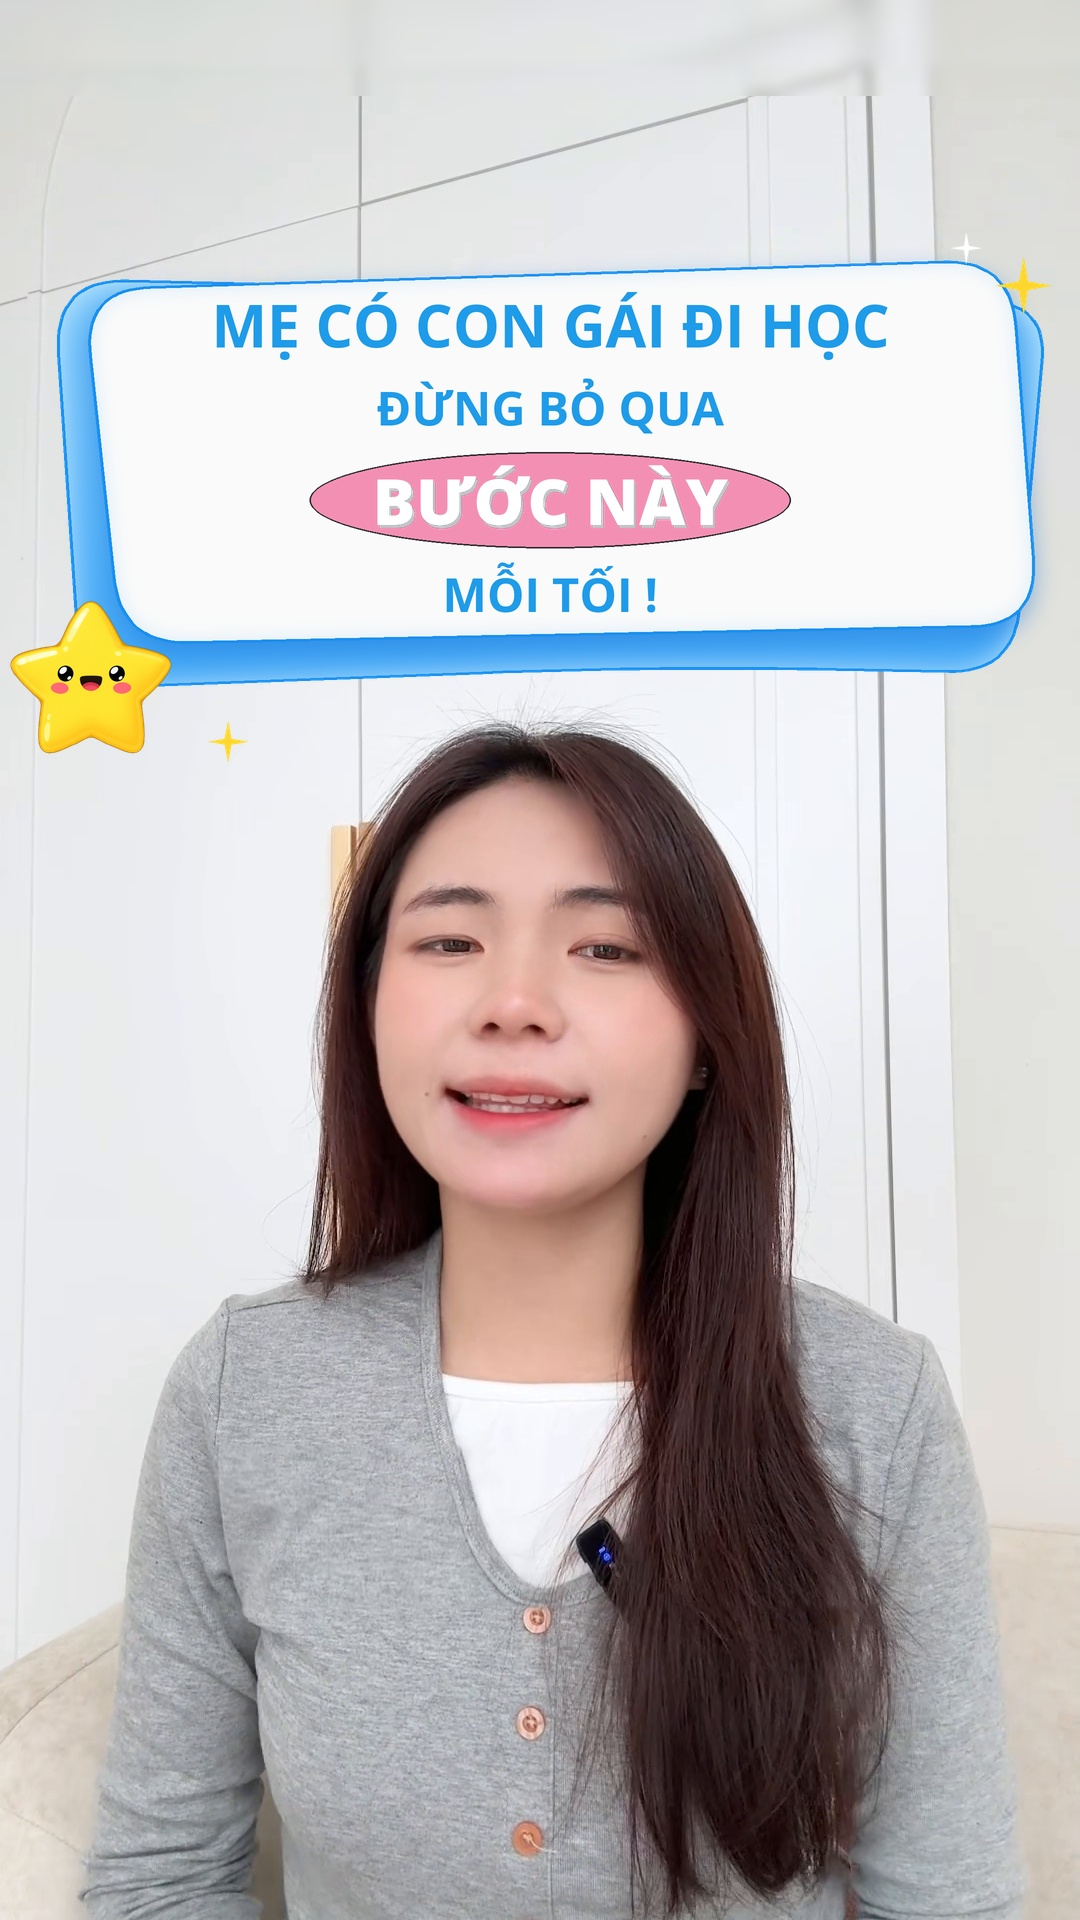
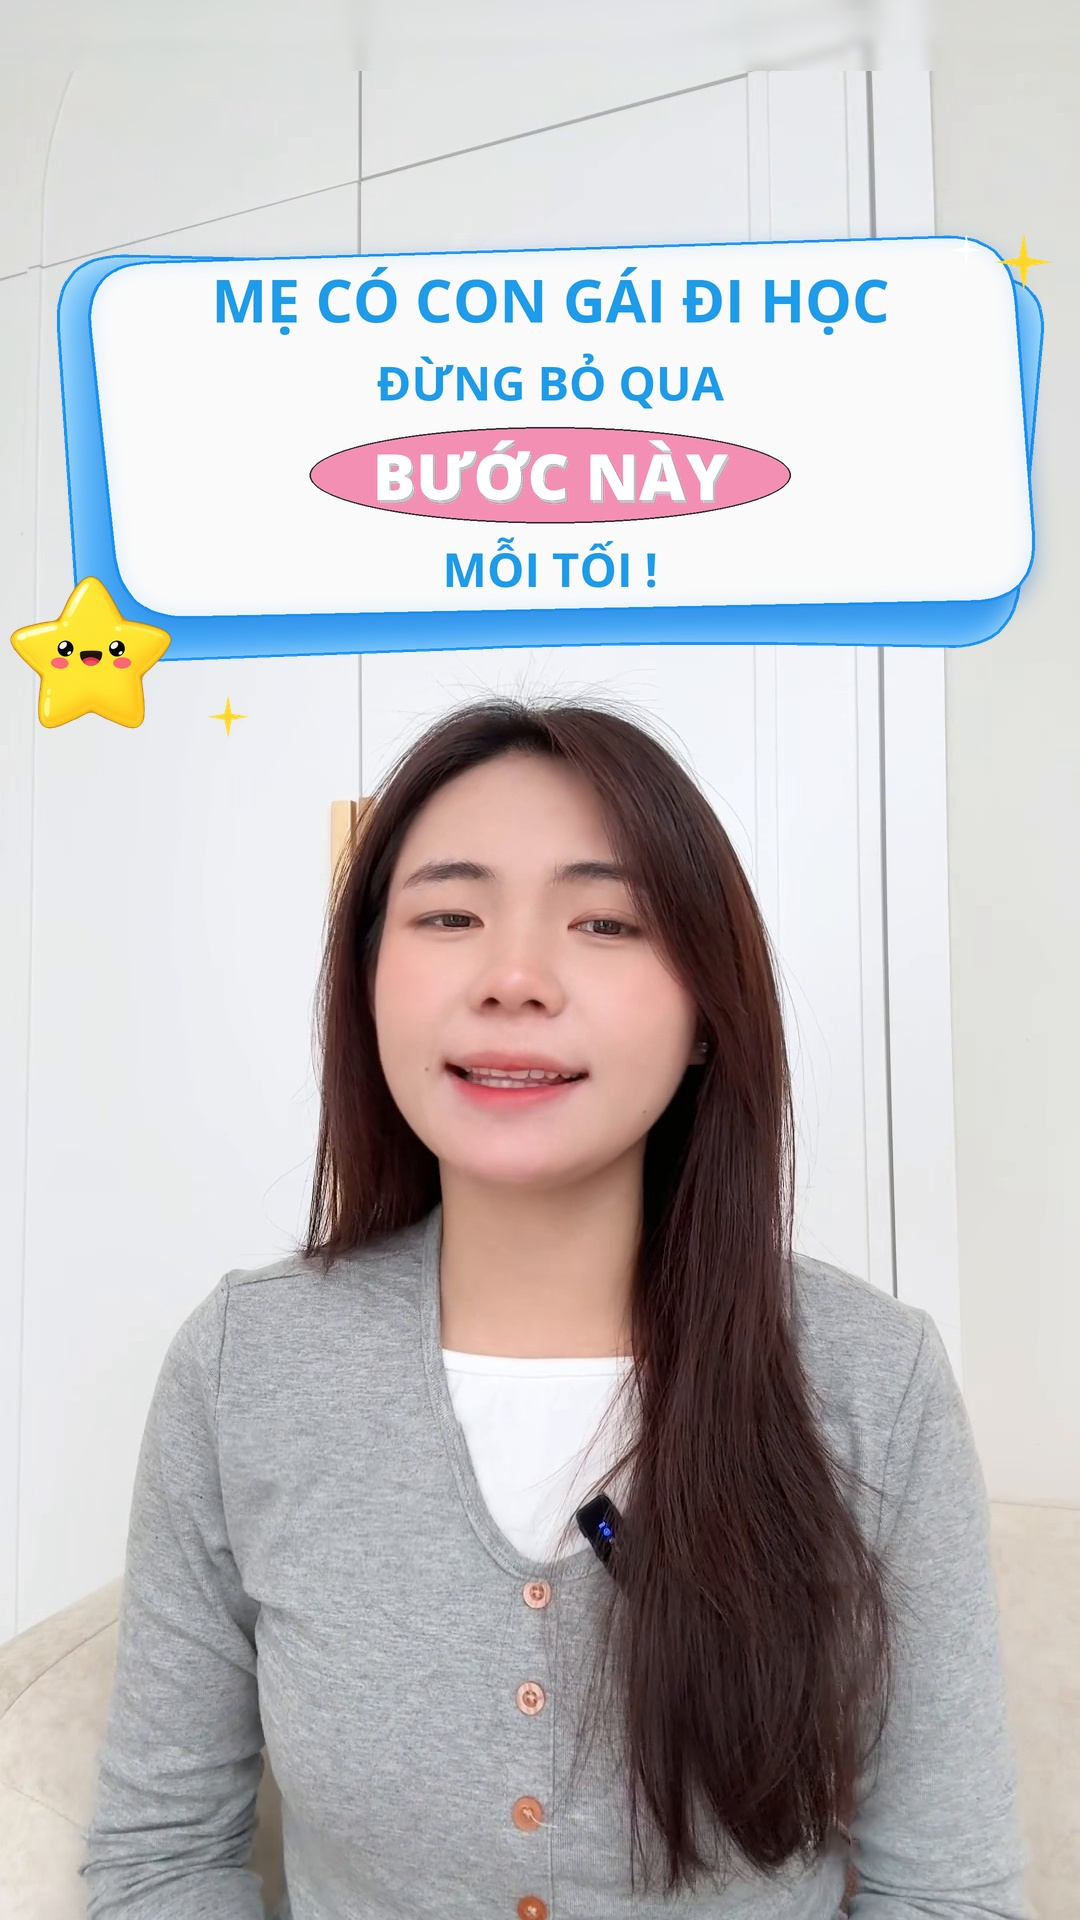
Raise the title card a little for better balance
Default blue-layer top moves from y=285 to y=250 (minimum 245): the text
stays inside TikTok's 3:4 cover crop while the card sits higher in the
full 9:16 view. Re-render all covers and the preview sheet.

Claude-Session: https://claude.ai/code/session_01Ug3WuR9fbtqxhsVyfjB7mN

diff --git a/.claude/skills/tao-anh-bia/scripts/tao_anh_bia.py b/.claude/skills/tao-anh-bia/scripts/tao_anh_bia.py
@@ -754,8 +754,8 @@ def tim_dinh_dau(anh):
 
 # TikTok hiển thị ảnh bìa trên trang cá nhân dạng 3:4 (cắt ~240px trên và dưới),
 # nên khung phải nằm trong vùng này để luôn thấy trọn vẹn.
-VUNG_AN_TOAN_TREN = 270
-Y_MAC_DINH = 285
+VUNG_AN_TOAN_TREN = 245
+Y_MAC_DINH = 250
 
 
 def tao_lop_phu(hook, sao="trai", diem_nhan="tu-dong", y_top=Y_MAC_DINH, ty_le=1.0):
@@ -849,8 +849,8 @@ def tao_lop_phu(hook, sao="trai", diem_nhan="tu-dong", y_top=Y_MAC_DINH, ty_le=1
     if "tia-vang-goc" in chon:
         ve_tia(layer, x0 + cw * 0.84, y0 + ch * 0.26, -36, TIA_VANG, dai=s(62), rong=s(12), goc=40, r0=s(30))
     if "lap-lanh" in chon:
-        ve_lap_lanh(dr, x0 + cw * 0.965, max(s(36), y0 + ch * 0.17), s(28), VANG)
-        ve_lap_lanh(dr, x0 + cw * 0.91, max(s(22), y0 + ch * 0.1), s(15), (255, 255, 255))
+        ve_lap_lanh(dr, x0 + cw * 0.965, max(s(262), y0 + ch * 0.17), s(28), VANG)
+        ve_lap_lanh(dr, x0 + cw * 0.91, max(s(250), y0 + ch * 0.1), s(15), (255, 255, 255))
         ve_lap_lanh(dr, x0 + cw * 0.2, y0 + ch * 1.02, s(20), VANG)
     if "bong-bong" in chon:
         ve_bong_bong(layer, x0 + cw * 0.97, y0 + ch * 0.92, s(26))
